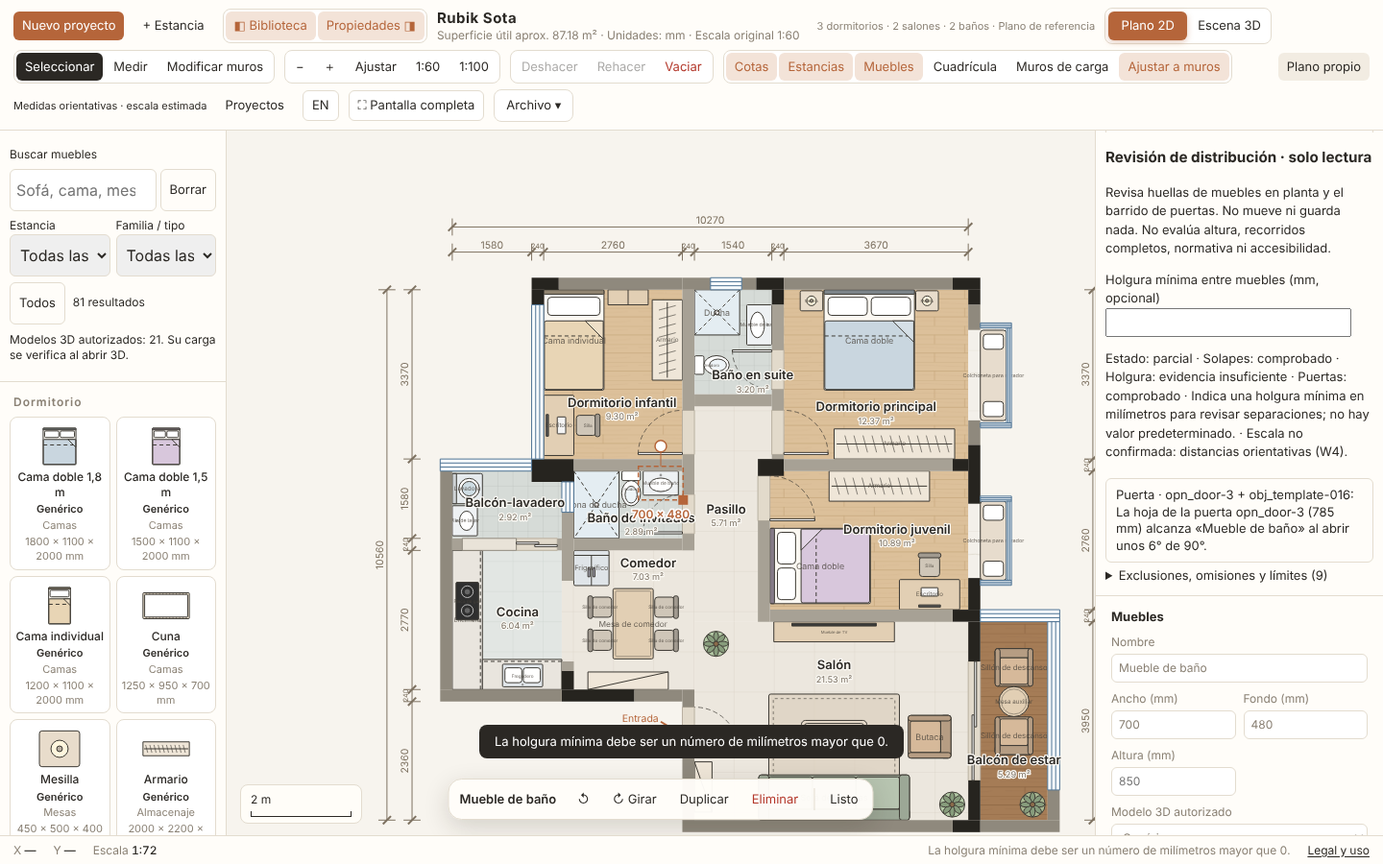
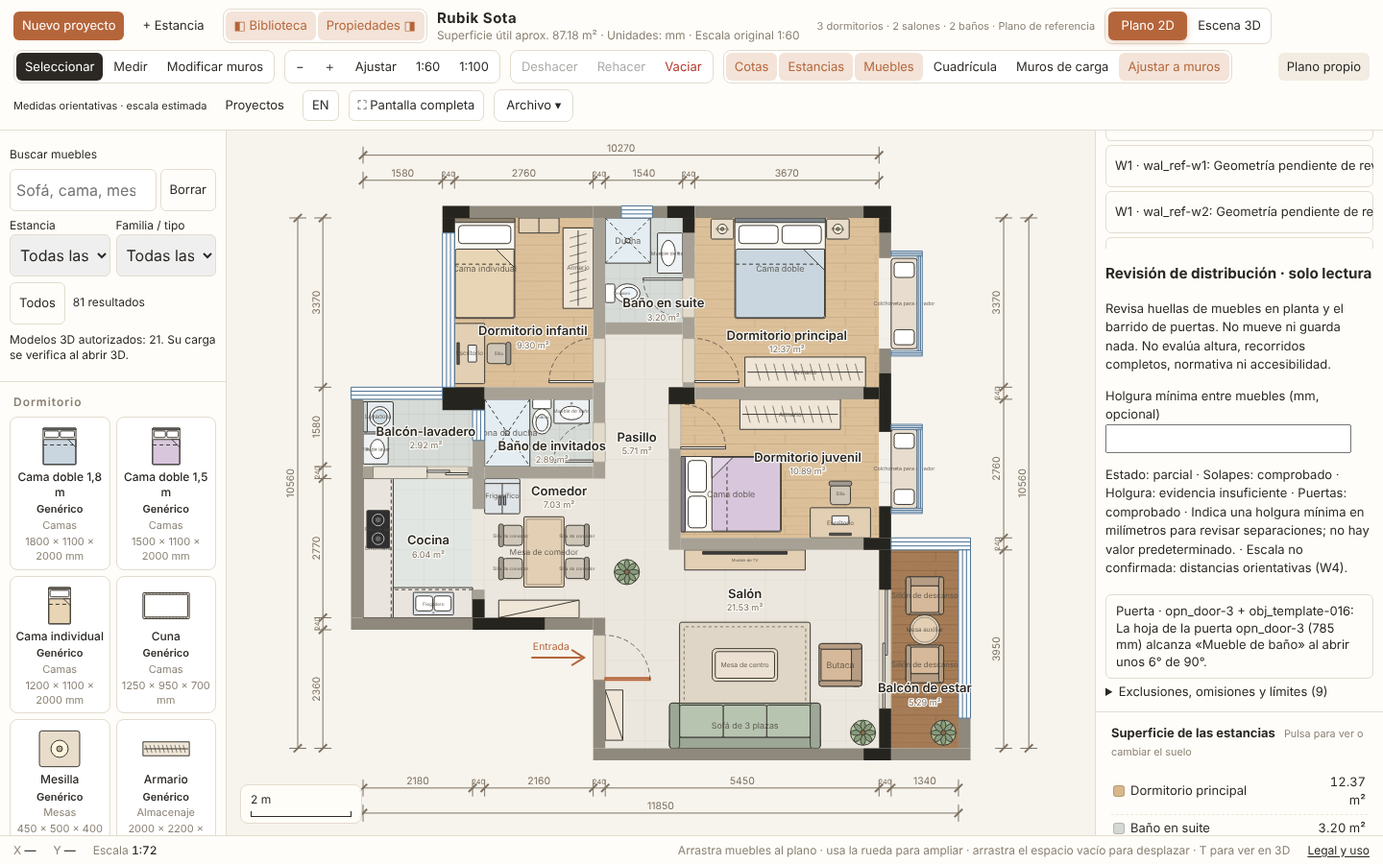
fix: Phase A evidence states with omitted geometry and exact 2D highlight
Omitted objects (invalid position/size/rotation) now degrade every check
that compares objects: overlaps and clearance with a threshold become
partial, clearance without threshold stays insufficient_evidence and says
so, doors become partial when any swing door is checkable (unchanged when
there are no active swing doors), and the global state is never checked.
Valid findings are kept.

Each finding carries exact derived evidence (footprint intersection,
closest-point segment, door sector with leaf at the contact angle) drawn
in a new non-interactive #gReview SVG group in plan millimetres. No text
over the plan; the measurement is shown in the panel. The highlight is
cleared on project change, tool close, explicit removal or when the
finding disappears, and is emptied from PNG exports. Nothing is
persisted; no default clearance threshold.

Claude-Session: https://claude.ai/code/session_01EgAiMCv5NnBcZyWTAra6i6

diff --git a/js/tracing-ui.js b/js/tracing-ui.js
@@ -3,7 +3,7 @@
  const T=FloorPlanTracing,P=FloorPlanPackage,I=FloorPlanImages,A=FloorPlanWallAssist,R=FloorPlanRawWallExport;
  let mode='navigate',points=[],editing=null,shown=false,lastId=library?.activeId(),lastRoot=project.id,operation=0,distanceMode,selectedImage;
  const urls=new Map(),loading=new Set();
- let layoutClearanceMm=null;
+ let layoutClearanceMm=null,layoutActive=null;
  let rawSession=null,rawExportReason='Analiza una imagen calibrada antes de exportar.',exportSerial;
  function invalidateRaw(reason){rawSession=null;rawExportReason=reason;const b=$('#assistRawExport');if(b){b.disabled=true;b.title=reason;}if(rawDialog.open){rawDialog.close();rawForm.reset();}}
  const rawDialog=document.createElement('dialog');rawDialog.id='rawExportDialog';rawDialog.setAttribute('aria-labelledby','rawExportTitle');
@@ -81,12 +81,12 @@
    if(!urls.has(key)){if(im.storage.kind!=='local-browser'||loading.has(key))continue;loading.add(key);const current=project.id;try{const blob=await I.get(key);if(!blob){status('Imagen local no disponible. Importa su ZIP para recuperarla.');continue;}const bytes=new Uint8Array(await blob.arrayBuffer()),info=T.imageInfo(bytes,im.mediaType);if(info.widthPx!==im.widthPx||info.heightPx!==im.heightPx)throw Error('La imagen local no coincide con las dimensiones de su referencia.');await decode(bytes,info);urls.set(key,{url:URL.createObjectURL(new Blob([T.renderBytes(bytes,info)],{type:info.mediaType}))});queueMicrotask(()=>drawImages());}catch(e){report(e);}finally{loading.delete(key);}continue;}
    const n=document.createElementNS(svg.namespaceURI,'image');n.setAttribute('href',urls.get(key).url);n.setAttribute('width',im.widthPx);n.setAttribute('height',im.heightPx);n.setAttribute('opacity',im.opacity??.55);const pl=im.placement;n.setAttribute('transform',`translate(${pl.originMm.x} ${pl.originMm.y}) rotate(${pl.rotationDeg}) scale(${pl.mmPerPixel})`);g.append(n);
   }}
- function render(){if(lastId!==library?.activeId()||lastRoot!==project.id){lastId=library?.activeId();lastRoot=project.id;operation++;mode='navigate';points=[];editing=null;selectedImage=undefined;urlsClear();status('Navegar: arrastra para desplazar; dos dedos o rueda para ampliar. Medidas orientativas.');}checkAssist();drawImages();drawPoints();$('#scaleConfidence').textContent='Medidas orientativas · escala '+({pending:'pendiente',estimated:'estimada',real:'confirmada por la persona'}[project.scale.confidence]);if(!shown)return;
+ function render(){if(lastId!==library?.activeId()||lastRoot!==project.id){lastId=library?.activeId();lastRoot=project.id;operation++;layoutActive=null;mode='navigate';points=[];editing=null;selectedImage=undefined;urlsClear();status('Navegar: arrastra para desplazar; dos dedos o rueda para ampliar. Medidas orientativas.');}checkAssist();drawImages();drawPoints();$('#scaleConfidence').textContent='Medidas orientativas · escala '+({pending:'pendiente',estimated:'estimada',real:'confirmada por la persona'}[project.scale.confidence]);if(!shown){drawReview(null);return;}
   const panel=$('#tracePanel');panel.hidden=false;panel.replaceChildren();
   const title=document.createElement('h3');title.textContent='Plano propio · trazado manual';panel.append(title);
   const note=document.createElement('p');note.textContent=`Medidas orientativas · Escala: ${project.scale.confidence==='real'?'confirmada por la persona':project.scale.confidence==='estimated'?'estimada':'pendiente'}`;panel.append(note);const privacy=document.createElement('p');privacy.textContent='El ZIP incluye las imágenes originales y sus metadatos. Revisa sus datos personales antes de compartirlo.';panel.append(privacy);
   const actions=document.createElement('div');actions.className='actions';panel.append(actions);
-  for(const [id,text,fn]of [['traceNew','Nuevo desde imagen',()=>openImage(true)],['traceAddImage','Añadir imagen',()=>openImage(false)],['traceCalibrate','Calibrar',()=>start('calibrate')],['traceVerify','Segunda cota',()=>start('verify')],['traceConfirm','Confirmar escala',()=>{try{apply(T.confirm);status('Escala confirmada por la persona. Las medidas siguen siendo orientativas.');}catch(e){report(e);}}],['traceWall','Muro',()=>start('wall')],['traceDoor','Puerta',()=>start('door')],['traceWindow','Ventana',()=>start('window')],['traceRoom','Estancia',()=>start('room')],['traceUndoPoint','Quitar último punto',()=>{points.pop();drawPoints();}],['traceCloseRoom','Cerrar estancia',()=>{try{if(mode!=='room'||points.length<3)throw Error('Marca al menos tres vértices.');const polygon=points;apply(p=>T.room(p,polygon));points=[];drawPoints();status('Estancia guardada. Revisa su contorno.');}catch(e){report(e);}}],['traceEdit','Seleccionar/editar',()=>start('edit')],['traceNavigate','Navegar/cancelar',cancel],['traceExport','Exportar ZIP',async()=>{try{download('proyecto-plano.zip',await P.encode(project,I.get));}catch(e){report(e);}}],['traceImport','Importar ZIP',()=>$('#traceZipFile').click()],['traceHidePanel','Cerrar herramientas',()=>{shown=false;panel.hidden=true;drawer(null);}]] ){
+  for(const [id,text,fn]of [['traceNew','Nuevo desde imagen',()=>openImage(true)],['traceAddImage','Añadir imagen',()=>openImage(false)],['traceCalibrate','Calibrar',()=>start('calibrate')],['traceVerify','Segunda cota',()=>start('verify')],['traceConfirm','Confirmar escala',()=>{try{apply(T.confirm);status('Escala confirmada por la persona. Las medidas siguen siendo orientativas.');}catch(e){report(e);}}],['traceWall','Muro',()=>start('wall')],['traceDoor','Puerta',()=>start('door')],['traceWindow','Ventana',()=>start('window')],['traceRoom','Estancia',()=>start('room')],['traceUndoPoint','Quitar último punto',()=>{points.pop();drawPoints();}],['traceCloseRoom','Cerrar estancia',()=>{try{if(mode!=='room'||points.length<3)throw Error('Marca al menos tres vértices.');const polygon=points;apply(p=>T.room(p,polygon));points=[];drawPoints();status('Estancia guardada. Revisa su contorno.');}catch(e){report(e);}}],['traceEdit','Seleccionar/editar',()=>start('edit')],['traceNavigate','Navegar/cancelar',cancel],['traceExport','Exportar ZIP',async()=>{try{download('proyecto-plano.zip',await P.encode(project,I.get));}catch(e){report(e);}}],['traceImport','Importar ZIP',()=>$('#traceZipFile').click()],['traceHidePanel','Cerrar herramientas',()=>{shown=false;panel.hidden=true;layoutActive=null;drawReview(null);drawer(null);}]] ){
    const b=document.createElement('button');b.id=id;b.className='btn';b.textContent=text;b.onclick=fn;actions.append(b);
   }
   assistPanel(panel);
@@ -110,18 +110,38 @@
   const label=document.createElement('label');label.textContent='Holgura mínima entre muebles (mm, opcional) ';const input=document.createElement('input');input.id='layoutReviewClearance';input.type='number';input.min='1';input.step='1';input.inputMode='numeric';input.value=layoutClearanceMm??'';
   input.onchange=()=>{const v=input.value.trim(),n=v===''?null:Number(v);if(n!==null&&!(Number.isFinite(n)&&n>0)){report(Error('La holgura mínima debe ser un número de milímetros mayor que 0.'));input.value=layoutClearanceMm??'';return;}const next=n===null?null:Math.round(n);if(next===layoutClearanceMm)return;layoutClearanceMm=next;render();};
   label.append(input);box.append(label);
-  let result;try{result=L.review(project,{clearanceMm:layoutClearanceMm,label:o=>typeof nm==='function'?nm(o.name):o.name});}catch(e){const error=document.createElement('p');error.id='layoutReviewStatus';error.textContent='No se pudo revisar: '+(e.message||e);box.append(error);return;}
+  let result;try{result=L.review(project,{clearanceMm:layoutClearanceMm,label:o=>typeof nm==='function'?nm(o.name):o.name});}catch(e){layoutActive=null;drawReview(null);const error=document.createElement('p');error.id='layoutReviewStatus';error.textContent='No se pudo revisar: '+(e.message||e);box.append(error);return;}
   const state={checked:'comprobado',partial:'parcial',insufficient_evidence:'evidencia insuficiente'};
   const summary=document.createElement('p');summary.id='layoutReviewStatus';summary.dataset.status=result.status;
   summary.textContent=`Estado: ${state[result.status]} · Solapes: ${state[result.checks.solapes.status]} · Holgura: ${state[result.checks.holgura.status]} · Puertas: ${state[result.checks.puertas.status]}`+[result.checks.holgura.reason,result.checks.puertas.status!=='checked'?result.checks.puertas.reason:null].filter(Boolean).map(r=>' · '+r).join('')+(result.scaleConfidence!=='real'?' · Escala no confirmada: distancias orientativas (W4).':'');box.append(summary);
   const list=document.createElement('div');list.id='layoutReviewFindings';box.append(list);
   const kinds={solape:'Solape',holgura:'Holgura',puerta:'Puerta'};
-  for(const f of result.findings){const b=document.createElement('button');b.className='btn';b.dataset.code=f.code;b.textContent=`${kinds[f.code]} · ${f.objects.join(' + ')}: ${f.message}`;b.title=`${f.method}. ${f.limitation}`;b.onclick=()=>locate(f.code==='puerta'?f.objects[1]:f.objects[0]);list.append(b);}
+  const active=result.findings.find(f=>findingKey(f)===layoutActive);if(!active)layoutActive=null;drawReview(active||null);
+  for(const f of result.findings){const b=document.createElement('button');b.className='btn';b.dataset.code=f.code;b.dataset.key=findingKey(f);b.setAttribute('aria-pressed',String(f===active));b.textContent=`${kinds[f.code]} · ${f.objects.join(' + ')}: ${f.message}`;b.title=`${f.method}. ${f.limitation}`;b.onclick=()=>{layoutActive=findingKey(f);locate(f.code==='puerta'?f.objects[1]:f.objects[0]);render();};list.append(b);}
+  if(active){const caption=document.createElement('p');caption.id='layoutReviewActive';caption.textContent='Resaltado en el plano · '+reviewCaption(active);box.append(caption);const clear=document.createElement('button');clear.className='btn';clear.id='layoutReviewClearHighlight';clear.textContent='Quitar resaltado del plano';clear.onclick=()=>{layoutActive=null;render();};box.append(clear);}
   if(!result.findings.length)list.textContent='Sin hallazgos con los datos y el método actuales.';
   const limits=document.createElement('details');limits.id='layoutReviewLimits';const sum=document.createElement('summary');sum.textContent=`Exclusiones, omisiones y límites (${result.excluded.length+result.skipped.length+result.unsupported.length})`;limits.append(sum);
   const ul=document.createElement('ul');for(const text of [...result.excluded.map(e=>`Excluido ${e.objects.join(' + ')}: ${e.reason}`),...result.skipped.map(e=>`Sin evaluar ${e.id}: ${e.reason}`),...result.unsupported.map(e=>`No comprobado (${e.check}): ${e.reason}`)]){const li=document.createElement('li');li.textContent=text;ul.append(li);}limits.append(ul);box.append(limits);
  }
 
+ const findingKey=f=>f.code+':'+f.objects.join('+');
+ const reviewCaption=f=>f.code==='solape'?`Solape de huellas: ${f.measurementMm} mm de penetración (${f.objects.join(' + ')})`:f.code==='holgura'?`Holgura: ${f.measurementMm} mm < umbral ${f.thresholdMm} mm (${f.objects.join(' + ')})`:`Puerta ${f.objects[0]}: la hoja alcanza ${f.objects[1]} a ≈${f.measurementDeg}° de 90°`;
+ // Draws only the exact evidence computed by FloorPlanLayoutReview, in plan millimetres (same viewBox as the plan).
+ function drawReview(f){const g=$('#gReview');if(!g)return;g.replaceChildren();delete g.dataset.finding;if(!f||!f.evidence)return;g.dataset.finding=findingKey(f);
+  const ns=svg.namespaceURI,e=f.evidence,red='#d0103a',pts=P=>P.map(v=>`${v.x},${v.y}`).join(' ');
+  const el=(tag,attrs,cls)=>{const n=document.createElementNS(ns,tag);for(const [k,v]of Object.entries(attrs))n.setAttribute(k,v);n.setAttribute('vector-effect','non-scaling-stroke');if(cls)n.setAttribute('class',cls);g.append(n);return n;};
+  const outline=P=>el('polygon',{points:pts(P),fill:'none',stroke:red,'stroke-width':2,'stroke-dasharray':'6 4'},'review-footprint');
+  // No text is drawn on the plan (it would cover room and furniture labels); the measurement is given as an accessible title
+  // here and as visible text in the review panel.
+  const title=document.createElementNS(ns,'title');title.textContent=reviewCaption(f);g.append(title);
+  if(e.kind==='overlap'){e.footprints.forEach(outline);if(e.polygon.length>=3)el('polygon',{points:pts(e.polygon),fill:red,'fill-opacity':.45,stroke:red,'stroke-width':2},'review-overlap');}
+  else if(e.kind==='clearance'){e.footprints.forEach(outline);el('line',{x1:e.a.x,y1:e.a.y,x2:e.b.x,y2:e.b.y,stroke:red,'stroke-width':4,'stroke-linecap':'round'},'review-gap');for(const p of [e.a,e.b])el('circle',{cx:p.x,cy:p.y,r:35,fill:red},'review-gap-end');}
+  else if(e.kind==='door'){const h=e.hinge,R=e.radiusMm,at=d=>{const r=d*Math.PI/180;return {x:h.x+R*(Math.cos(r)*e.closed.x+Math.sin(r)*e.open.x),y:h.y+R*(Math.cos(r)*e.closed.y+Math.sin(r)*e.open.y)};};
+   const sweep=e.closed.x*e.open.y-e.closed.y*e.open.x>0?1:0,c=at(0),o=at(90),tip=e.leaf[1];
+   el('path',{d:`M${h.x} ${h.y}L${c.x} ${c.y}A${R} ${R} 0 0 ${sweep} ${o.x} ${o.y}Z`,fill:red,'fill-opacity':.12,stroke:red,'stroke-width':1.5,'stroke-dasharray':'5 3'},'review-door-sweep');
+   el('path',{d:`M${h.x} ${h.y}L${tip.x} ${tip.y}A${R} ${R} 0 0 ${sweep} ${o.x} ${o.y}Z`,fill:red,'fill-opacity':.35,stroke:'none'},'review-door-blocked');
+   outline(e.footprint);el('line',{x1:h.x,y1:h.y,x2:tip.x,y2:tip.y,stroke:red,'stroke-width':4,'stroke-linecap':'round'},'review-door-leaf');}
+ }
  function focusPoint(point){view.x0=point.x-svg.clientWidth/2/view.s;view.y0=point.y-svg.clientHeight/2/view.s;applyView();drawPoints();}
  function locate(id){const groups=[['wall',project.walls],['opening',project.openings],['room',project.rooms]];for(const [kind,list]of groups)if(list.some(e=>e.id===id)){editing={kind,id};ui.sel=null;renderPanel();drawer('panel',true);const e=list.find(e=>e.id===id);const w=kind==='opening'?project.walls.find(w=>w.id===e.wallId):e;const point=kind==='room'?{x:e.polygon.reduce((n,p)=>n+p.x,0)/e.polygon.length,y:e.polygon.reduce((n,p)=>n+p.y,0)/e.polygon.length}:kind==='opening'?{x:w.start.x+(w.end.x-w.start.x)*(e.offsetMm+e.widthMm/2)/Math.hypot(w.end.x-w.start.x,w.end.y-w.start.y),y:w.start.y+(w.end.y-w.start.y)*(e.offsetMm+e.widthMm/2)/Math.hypot(w.end.x-w.start.x,w.end.y-w.start.y)}:{x:(w.start.x+w.end.x)/2,y:(w.start.y+w.end.y)/2};focusPoint(point);return;}const obj=project.objects.find(o=>o.id===id);if(obj){select({kind:'furn',id});drawer('panel',true);focusPoint(obj.position);}else toast('Revisa la calibración y la segunda cota.',5000);}
  function editPanel(){if(!editing)return false;const {kind,id}=editing,e=(kind==='wall'?project.walls:kind==='opening'?project.openings:project.rooms).find(e=>e.id===id);if(!e){editing=null;return false;}const panel=$('#panel');panel.replaceChildren();const title=document.createElement('h3');title.textContent=`Editar ${kind==='wall'?'muro':kind==='opening'?'hueco':'estancia'} · ${id}`;panel.append(title);

diff --git a/js/layout-review.js b/js/layout-review.js
@@ -28,6 +28,9 @@
    if(Math.abs(den)<EPS){if(num>=-EPS)return 0;continue;}const t=-num/den;if(den<0)t0=Math.max(t0,t);else t1=Math.min(t1,t);if(t0>=t1)return 0;}return (t1-t0)*len(d);}
  function area(P){let s=0;for(let i=0;i<P.length;i++){const a=P[i],b=P[(i+1)%P.length];s+=a.x*b.y-b.x*a.y;}return s/2;}
  function clip(P,origin,n){const out=[];for(let i=0;i<P.length;i++){const a=P[i],b=P[(i+1)%P.length],da=dot(sub(a,origin),n),db=dot(sub(b,origin),n);if(da>=0)out.push(a);if((da>=0)!==(db>=0)){const t=da/(da-db);out.push({x:a.x+(b.x-a.x)*t,y:a.y+(b.y-a.y)*t});}}return out;}
+ // Exact intersection of two convex polygons: clip A by every edge half-plane of B.
+ function intersection(A,B){const ccw=area(B)>0;let Q=A;for(let i=0;i<B.length&&Q.length;i++){const v=B[i],w=B[(i+1)%B.length],e=sub(w,v);Q=clip(Q,v,ccw?{x:-e.y,y:e.x}:{x:e.y,y:-e.x});}return Q;}
+ const copy=P=>P.map(v=>({x:v.x,y:v.y}));
  // Door leaf sweep exactly as Rubik draws it in 2D: hinge h on the wall face, closed along c, open along o (90°), radius = opening width.
  // Returns the largest opening angle (degrees) before the leaf reaches the footprint, or null when they do not interfere.
  function leafContact(door,P){const h={x:door.h[0],y:door.h[1]},c={x:door.c[0],y:door.c[1]},o={x:door.o[0],y:door.o[1]},L=door.len;
@@ -57,11 +60,11 @@
   for(let i=0;i<objects.length;i++)for(let j=i+1;j<objects.length;j++){const A=objects[i],B=objects[j],ids=[A.o.id,B.o.id];
    const depth=penetration(A.poly,B.poly),why=exclusion(A.o,B.o,label);
    if(why){if(depth>EPS||clearanceMm!==null&&separation(A.poly,B.poly).d<clearanceMm)excluded.push({objects:ids,reason:why});continue;}
-   if(depth>EPS){findings.push({code:'solape',objects:ids,measurementMm:round(depth),method:METHOD,limitation:'Huellas en planta; no evalúa altura, por lo que un solape puede ser intencionado (por ejemplo, una silla bajo la mesa).',message:`Las huellas de «${label(A.o)}» y «${label(B.o)}» se solapan ${round(depth)} mm en planta.`});continue;}
+   if(depth>EPS){findings.push({code:'solape',objects:ids,measurementMm:round(depth),evidence:{kind:'overlap',polygon:intersection(A.poly,B.poly),footprints:[copy(A.poly),copy(B.poly)]},method:METHOD,limitation:'Huellas en planta; no evalúa altura, por lo que un solape puede ser intencionado (por ejemplo, una silla bajo la mesa).',message:`Las huellas de «${label(A.o)}» y «${label(B.o)}» se solapan ${round(depth)} mm en planta.`});continue;}
    if(clearanceMm===null)continue;
    const s=separation(A.poly,B.poly);if(!(s.d<clearanceMm))continue;
    if(walls.some(W=>insideLength(s.a,s.b,W)>EPS)){excluded.push({objects:ids,reason:'La separación más corta atraviesa un muro; no es un hueco libre entre muebles.'});continue;}
-   findings.push({code:'holgura',objects:ids,measurementMm:round(s.d),thresholdMm:clearanceMm,method:METHOD+'; distancia mínima exacta entre huellas',limitation:'Distancia en planta entre huellas; no garantiza un paso utilizable ni cumplimiento normativo.',message:s.d<0.05?`«${label(A.o)}» y «${label(B.o)}» están en contacto en planta (0 mm), menos que la holgura indicada (${clearanceMm} mm).`:`«${label(A.o)}» y «${label(B.o)}» quedan a ${round(s.d)} mm en planta, menos que la holgura indicada (${clearanceMm} mm).`});}
+   findings.push({code:'holgura',objects:ids,measurementMm:round(s.d),thresholdMm:clearanceMm,evidence:{kind:'clearance',a:{...s.a},b:{...s.b},footprints:[copy(A.poly),copy(B.poly)]},method:METHOD+'; distancia mínima exacta entre huellas',limitation:'Distancia en planta entre huellas; no garantiza un paso utilizable ni cumplimiento normativo.',message:s.d<0.05?`«${label(A.o)}» y «${label(B.o)}» están en contacto en planta (0 mm), menos que la holgura indicada (${clearanceMm} mm).`:`«${label(A.o)}» y «${label(B.o)}» quedan a ${round(s.d)} mm en planta, menos que la holgura indicada (${clearanceMm} mm).`});}
   const swingDoors=(project.openings||[]).filter(op=>op.kind==='door'&&project.walls.find(w=>w.id===op.wallId)?.status!=='demolished');
   let doorsChecked=0;
   for(const op of swingDoors){
@@ -71,17 +74,25 @@
    for(const {o,poly}of objects){
     if(FLOOR_COVERING.has(o.type)||HIGH_WALL.has(o.type)){const contact=leafContact(door,poly);if(contact!==null)excluded.push({objects:[op.id,o.id],reason:exclusion(o,o,label)||'Tipo excluido.'});continue;}
     const contact=leafContact(door,poly);if(contact===null||contact>=90-EPS)continue;
-    findings.push({code:'puerta',objects:[op.id,o.id],openingId:op.id,measurementDeg:Math.round(contact),method:'Barrido de la hoja como cuarto de círculo de radio igual al ancho del hueco, con la bisagra y el sentido guardados (igual que el plano 2D)',limitation:'Hoja de grosor nulo y apertura completa de 90°; no evalúa altura, tiradores ni el lado opuesto.',message:`La hoja de la puerta ${op.id} (${op.widthMm} mm) alcanza «${label(o)}» al abrir unos ${Math.round(contact)}° de 90°.`});}
+    const h={x:door.h[0],y:door.h[1]},rad=contact*Math.PI/180,tip={x:h.x+door.len*(Math.cos(rad)*door.c[0]+Math.sin(rad)*door.o[0]),y:h.y+door.len*(Math.cos(rad)*door.c[1]+Math.sin(rad)*door.o[1])};
+    findings.push({code:'puerta',objects:[op.id,o.id],openingId:op.id,measurementDeg:Math.round(contact),evidence:{kind:'door',hinge:h,radiusMm:door.len,closed:{x:door.c[0],y:door.c[1]},open:{x:door.o[0],y:door.o[1]},contactDeg:contact,leaf:[{...h},tip],footprint:copy(poly)},method:'Barrido de la hoja como cuarto de círculo de radio igual al ancho del hueco, con la bisagra y el sentido guardados (igual que el plano 2D)',limitation:'Hoja de grosor nulo y apertura completa de 90°; no evalúa altura, tiradores ni el lado opuesto.',message:`La hoja de la puerta ${op.id} (${op.widthMm} mm) alcanza «${label(o)}» al abrir unos ${Math.round(contact)}° de 90°.`});}
   }
+  // Evidence completeness: any object without valid geometry may hide overlaps, clearances or door contacts, so no check that
+  // compares objects can be 'checked'. Valid findings are kept; the state says the list of objects was incomplete.
+  const invalid=skipped.filter(s=>s.check==='objetos').length,missing=invalid?` ${invalid} objeto(s) sin geometría válida no se han podido revisar.`:'';
   const checks={
-   solapes:{status:'checked'},
-   holgura:clearanceMm===null?{status:'insufficient_evidence',reason:'Indica una holgura mínima en milímetros para revisar separaciones; no hay valor predeterminado.'}:{status:'checked',thresholdMm:clearanceMm},
-   puertas:!swingDoors.length?{status:'checked',reason:'No hay puertas abatibles activas.'}:doorsChecked===swingDoors.length?{status:'checked'}:doorsChecked?{status:'partial',reason:'Algunas puertas no tienen bisagra y sentido registrados.'}:{status:'insufficient_evidence',reason:'Ninguna puerta tiene bisagra y sentido registrados.'}
+   solapes:invalid?{status:'partial',reason:'Revisión incompleta.'+missing}:{status:'checked'},
+   holgura:clearanceMm===null?{status:'insufficient_evidence',reason:'Indica una holgura mínima en milímetros para revisar separaciones; no hay valor predeterminado.'+(invalid?' Además,'+missing.toLowerCase():'')}:invalid?{status:'partial',thresholdMm:clearanceMm,reason:'Revisión incompleta.'+missing}:{status:'checked',thresholdMm:clearanceMm}
   };
-  if(skipped.some(s=>s.check==='objetos'))checks.solapes={status:'partial',reason:'Algunos objetos no tienen geometría válida.'};
+  if(!swingDoors.length)checks.puertas={status:'checked',reason:'No hay puertas abatibles activas.'};
+  else{const reasons=[];let status=doorsChecked===swingDoors.length?'checked':doorsChecked?'partial':'insufficient_evidence';
+   if(status==='partial')reasons.push('Algunas puertas no tienen bisagra y sentido registrados.');
+   if(status==='insufficient_evidence')reasons.push('Ninguna puerta tiene bisagra y sentido registrados.'+(invalid?' Además,'+missing.toLowerCase():''));
+   else if(invalid){status='partial';reasons.push('Revisión incompleta:'+missing);}
+   checks.puertas=reasons.length?{status,reason:reasons.join(' ')}:{status};}
   const states=Object.values(checks).map(c=>c.status);
   const status=states.every(s=>s==='checked')?'checked':states.every(s=>s==='insufficient_evidence')?'insufficient_evidence':'partial';
   return {status,units:'mm',method:METHOD,scaleConfidence:project.scale?.confidence,checks,findings,excluded,skipped,unsupported:UNSUPPORTED.map(([check,reason])=>({check,reason}))};
  }
- const api={review,leafContact,separation,penetration};if(typeof module==='object')module.exports=api;else root.FloorPlanLayoutReview=api;
+ const api={review,leafContact,separation,penetration,intersection};if(typeof module==='object')module.exports=api;else root.FloorPlanLayoutReview=api;
 })(globalThis);

diff --git a/index.html b/index.html
@@ -359,6 +359,7 @@ dialog::backdrop{background:#0006}dialog label{display:block;margin:12px 0}dialo
       <g id="gMeasure" pointer-events="none"></g>
       <g id="gTrace" pointer-events="none"></g>
       <g id="gAssist" pointer-events="none" aria-label="Sugerencias experimentales sin confirmar"></g>
+      <g id="gReview" pointer-events="none" aria-label="Resaltado de la revisión de distribución (solo lectura)"></g>
       <g id="gSel"></g>
     </svg>
     <div id="view3d">
@@ -1666,6 +1667,7 @@ function exportPNG(){
   clone.setAttribute('viewBox', `${BOUNDS.x} ${BOUNDS.y} ${BOUNDS.w} ${BOUNDS.h}`);
   clone.setAttribute('width', W); clone.setAttribute('height', H);
   SafeDOM.markup(clone.querySelector('#gSel'), '');
+  SafeDOM.markup(clone.querySelector('#gReview'), ''); // read-only review highlight never goes into exported images
   SafeDOM.markup(clone.querySelector('#gGrid'), `<rect x="-20000" y="-20000" width="55000" height="55000" fill="${ui.layers.grid?'url(#grid)':'#f7f4ee'}"/>`);
   const bg = document.createElementNS('http://www.w3.org/2000/svg','rect');
   Object.entries({x:-20000,y:-20000,width:55000,height:55000,fill:'#f7f4ee'}).forEach(([k,v]) => bg.setAttribute(k,v));

diff --git a/docs/technical/layout-review-phase-a.md b/docs/technical/layout-review-phase-a.md
@@ -1,6 +1,8 @@
 # Fase A (propuesta Pascal→Rubik) — revisión local de distribución
 
-**Estado: implementación inicial en rama aislada, pendiente de revisión.** No es una fase canónica.
+**Estado: implementación en rama aislada, pendiente de revisión humana.** No es una fase canónica.
+
+Historial en la rama: `02b8165` (revisión inicial) y la corrección posterior de estados de evidencia y resaltado 2D, descrita aquí.
 
 - **Base:** `claude/intelligent-pasteur-vci64k`, sobre `master` `c4f2493195c05fe54ca22bc1b9fbaf7ea1681af3`.
 - **Origen:** el borrador [PASCAL-RUBIK-INTEGRATION-ROADMAP](../proposals/PASCAL-RUBIK-INTEGRATION-ROADMAP.md), sección 8, Fase A, que sigue sin aprobar.
@@ -11,20 +13,60 @@
 
 ## Qué hace
 
-La revisión es **de solo lectura** y se recalcula en cada render del panel «Plano propio», justo debajo de los avisos W1–W4. No mueve, edita ni guarda nada. El umbral de holgura vive solo en memoria de la sesión. Cubre tres comprobaciones:
+La revisión es **de solo lectura** y se recalcula en cada render del panel «Plano propio», justo debajo de los avisos W1–W4. No mueve, edita ni guarda nada. El umbral de holgura y el hallazgo resaltado viven solo en memoria de la sesión.
+
+**No hay umbral de holgura predeterminado en esta iteración.** La persona debe introducirlo; sin él, esa comprobación queda en `insufficient_evidence`. Ofrecer valores orientativos sigue siendo una decisión abierta (D-A1 del borrador) y no se resuelve aquí.
+
+Cubre tres comprobaciones:
 
 | Comprobación | Método | Estado si faltan datos |
 | --- | --- | --- |
-| **Solapes entre muebles** | Huella orientada de Rubik (`FloorPlanTracing.footprint`, la misma de W3) y ejes separadores sobre las normales de ambos rectángulos. Mide la penetración mínima en mm. Si las huellas solo se tocan, no hay solape. | `partial` si algún objeto no tiene posición, tamaño o giro válidos. |
-| **Holgura entre muebles** | Distancia mínima exacta entre los dos polígonos convexos (vértice-arista en ambos sentidos). Se informa si es **estrictamente menor** que el umbral que indica la persona. Si el segmento más corto atraviesa un sólido de muro activo (`FloorPlanCore.geometry`, que ya descuenta los huecos de puertas y ventanas), el par se excluye porque no es un hueco libre. | **Sin umbral: `insufficient_evidence`.** No hay valor predeterminado ni se afirma ninguna norma. |
-| **Barrido de puertas** | Para cada puerta abatible en un muro activo, el barrido es exactamente el que dibuja el plano 2D: cuarto de círculo con centro en la bisagra sobre la cara del muro y radio igual al ancho del hueco, de la posición cerrada a la abierta (90°). Usa la bisagra (`start`/`end`) y el sentido (`left`/`right`) **guardados** en `opening.swing`. La huella se recorta al cuadrante y se calcula el **ángulo al que la hoja alcanza el mueble**. | Una puerta sin `swing` se omite con motivo y **no se declara bloqueada**. La geometría 2D/3D le aplica por defecto la bisagra en `start` y la apertura a la izquierda (`left`) para dibujarla, pero esa suposición no se usa como evidencia. Puertas: `partial` si faltan algunas, `insufficient_evidence` si faltan todas. |
+| **Solapes entre muebles** | Huella orientada de Rubik (`FloorPlanTracing.footprint`, la misma de W3) y ejes separadores sobre las normales de ambos rectángulos. Mide la penetración mínima en mm. Si las huellas solo se tocan, no hay solape. | `partial` si algún objeto no tiene posición, tamaño o giro válidos (ver «Evidencia incompleta»). |
+| **Holgura entre muebles** | Distancia mínima exacta entre los dos polígonos convexos (vértice-arista en ambos sentidos). Se informa si es **estrictamente menor** que el umbral que indica la persona. Si el segmento más corto atraviesa un sólido de muro activo (`FloorPlanCore.geometry`, que ya descuenta los huecos de puertas y ventanas), el par se excluye porque no es un hueco libre. | **Sin umbral: `insufficient_evidence`.** No hay valor predeterminado ni se afirma ninguna norma. Con umbral y objetos omitidos: `partial`. |
+| **Barrido de puertas** | Para cada puerta abatible en un muro activo, el barrido es exactamente el que dibuja el plano 2D: cuarto de círculo con centro en la bisagra sobre la cara del muro y radio igual al ancho del hueco, de la posición cerrada a la abierta (90°). Usa la bisagra (`start`/`end`) y el sentido (`left`/`right`) **guardados** en `opening.swing`. La huella se recorta al cuadrante y se calcula el **ángulo al que la hoja alcanza el mueble**. | Una puerta sin `swing` se omite con motivo y **no se declara bloqueada**. La geometría 2D/3D le aplica por defecto la bisagra en `start` y la apertura a la izquierda (`left`) para dibujarla, pero esa suposición no se usa como evidencia. Puertas: `partial` si faltan algunas, `insufficient_evidence` si faltan todas. Con objetos omitidos y alguna puerta comprobable: `partial`. |
 
 **Estado global:**
-- `checked` si las tres comprobaciones concluyen;
+- `checked` solo si las tres comprobaciones son `checked`;
 - `insufficient_evidence` si ninguna concluye;
 - `partial` en cualquier otro caso.
 
-**Cada hallazgo incluye:** los IDs implicados (`obj_…`, `opn_…`), la medición (mm o grados), el método y la limitación. El informe lista siempre las exclusiones, las omisiones y lo no comprobado.
+### Evidencia incompleta: objetos omitidos
+
+Un objeto sin posición, tamaño o giro válidos se omite (`skipped`), pero podría solapar, quedar cerca o estar en el barrido de una puerta. Por eso, cuando hay alguno:
+
+| Comprobación | Estado |
+| --- | --- |
+| Solapes | `partial`, con el número de objetos omitidos. |
+| Holgura con umbral | `partial`, con el número de objetos omitidos. |
+| Holgura sin umbral | `insufficient_evidence`; el motivo añade que además hay objetos omitidos. |
+| Puertas, si hay puertas abatibles activas comprobables | `partial`. Sin geometría válida no se puede descartar que el objeto omitido esté en un barrido. |
+| Puertas, si no hay puertas abatibles activas | `checked` («No hay puertas abatibles activas»): no hay nada que comprobar. Una puerta en un muro demolido no cuenta como activa. |
+| Puertas, si ninguna tiene `swing` | `insufficient_evidence`; el motivo menciona también los objetos omitidos. |
+| Global | Nunca `checked` con objetos omitidos. |
+
+Los hallazgos que sí pudieron calcularse se conservan. El estado indica que el análisis está incompleto.
+
+**Cada hallazgo incluye:** los IDs implicados (`obj_…`, `opn_…`), la medición (mm o grados), el método, la limitación y una `evidence` geométrica exacta, derivada y nunca persistida. El informe lista siempre las exclusiones, las omisiones y lo no comprobado.
+
+### Resaltado en el plano 2D
+
+Al pulsar un hallazgo, se selecciona y centra el mueble, como antes, y además se dibuja su evidencia en el grupo SVG `#gReview`, en milímetros del plano. Comparte `viewBox` con el plano, así que queda alineado a cualquier zoom o tamaño de ventana, con trazos `non-scaling-stroke` (la convención de puertas y símbolos). El grupo tiene `pointer-events="none"` y no intercepta controles.
+
+| Hallazgo | Se dibuja | Exactitud |
+| --- | --- | --- |
+| Solape | Las dos huellas orientadas (discontinuas) y su **intersección exacta**, rellena: polígono convexo obtenido recortando una huella por los semiplanos de la otra. | Exacta para los rectángulos guardados. |
+| Holgura | Las dos huellas y el **segmento entre los puntos más próximos**, con marcas en los extremos. | Exacto. A poco zoom, un hueco muy pequeño (p. ej. 25 mm) se ve como una marca de 1–2 px: se dibuja a escala real y no se exagera. |
+| Puerta | El cuarto de círculo del barrido, igual que el arco 2D; la parte **bloqueada** (de la posición de contacto a 90°), con más opacidad; la **hoja en el ángulo de contacto**; y la huella alcanzada. | Exacto con el modelo de Rubik: hoja de grosor nulo y longitud igual al ancho del hueco. No representa tiradores ni la puerta real. |
+
+- **Sin texto sobre el plano:** no se dibuja ninguna etiqueta encima, para no tapar rótulos de estancias ni de muebles. La medida y el umbral aparecen en el panel («Resaltado en el plano · …») y como `<title>` accesible del grupo.
+- **Cuándo se retira o actualiza:**
+  - con «Quitar resaltado del plano»;
+  - al cambiar de proyecto;
+  - al cerrar las herramientas;
+  - cuando el hallazgo deja de existir (por ejemplo, al quitar el umbral).
+- **Con cada render se recalcula** con la geometría vigente.
+- **Exportación PNG:** vacía `#gReview` en su copia del SVG, así que el resaltado nunca aparece en la imagen exportada.
+- **Nunca modifica** el proyecto, el historial (deshacer/rehacer), `localStorage` ni las exportaciones.
 
 ### Exclusiones por apilamiento de diseño, tomadas del propio Rubik
 
@@ -53,30 +95,56 @@ La interfaz y el informe lo declaran siempre:
 
 - [`js/layout-review.js`](../../js/layout-review.js): módulo UMD sin DOM ni dependencias. Expone `FloorPlanLayoutReview.review(project,{clearanceMm,label})`. No usa `new Function`, `eval` ni código de Pascal.
 - [`js/tracing-core.js`](../../js/tracing-core.js): extrae `footprint(o)`, la huella orientada que W3 ya usaba, sin cambiar su fórmula. W3 la reutiliza.
-- [`js/tracing-ui.js`](../../js/tracing-ui.js): sección `#layoutReview` tras `#traceWarnings`, con el mismo patrón de botones que localizan el elemento. El campo `#layoutReviewClearance` es opcional. El detalle `#layoutReviewLimits` muestra exclusiones y límites. Los nombres se traducen con `nm()`.
-- [`index.html`](../../index.html): carga el script tras `tracing-core.js` y aplica estilos de lista equivalentes a `#traceWarnings`.
+- [`js/tracing-ui.js`](../../js/tracing-ui.js): sección `#layoutReview` tras `#traceWarnings`, con el mismo patrón de botones que localizan el elemento.
+  - El campo `#layoutReviewClearance` es opcional.
+  - El detalle `#layoutReviewLimits` muestra exclusiones y límites.
+  - `drawReview()` pinta `#gReview`; `#layoutReviewActive` y `#layoutReviewClearHighlight` describen y retiran el resaltado.
+  - Los nombres se traducen con `nm()`.
+- [`index.html`](../../index.html):
+  - carga el script tras `tracing-core.js`;
+  - añade `<g id="gReview">` al SVG del plano;
+  - vacía ese grupo en la copia que exporta a PNG;
+  - aplica estilos de lista equivalentes a `#traceWarnings`.
 
 **Relación con Pascal** (`pascalorg/editor` @ `67f8041`): se adapta solo el **patrón de evidencia** de `check_collisions`, con estados `checked`/`partial`/`insufficient_evidence`, omisiones y límites explícitos. **No** se usa su AABB envolvente ni su zona de puerta rectangular: Rubik ya tenía la huella orientada y datos de bisagra y sentido.
 
 ## Pruebas
 
-Ejecutadas una a una (sin suites en paralelo) en clones git aislados del checkout: `master` `c4f2493` frente a la Fase A (`60060c6` más estos cambios). Así las capturas que escriben las suites no tocan el checkout de trabajo. Chromium headless 1194 con SwiftShader. **Condición del entorno:** jsDelivr devuelve 403 en el proxy. Three.js 0.160.0 se sirvió con un *shim* local de `curl` a partir del tarball npm de la misma versión.
+Ejecutadas una a una, sin suites en paralelo, en clones git aislados del checkout, para que las capturas que escriben las suites no lo toquen.
 
-| Suite | `master` | Fase A |
+- **Versiones comparadas:** `master` `c4f2493` frente a la Fase A con esta corrección (`02b8165` más los cambios). Antes de la batería se comprobó que el clon era idéntico al checkout, archivo por archivo.
+- **Base:** los resultados de `master` son los de la ejecución secuencial de la misma sesión. `master` no ha cambiado (`c4f2493`).
+- **Entorno:** Chromium headless 1194 con SwiftShader. jsDelivr devuelve 403 en el proxy, así que Three.js 0.160.0 se sirvió con un *shim* local de `curl` a partir del tarball npm de la misma versión.
+
+| Suite | `master` | Fase A con corrección |
 | --- | --- | --- |
-| `tests/layout-review.test.cjs` (nueva) | — | 12/12 |
-| `tests/layout-review.browser.test.cjs` (nueva, 1440×900 y 390×844) | — | 2/2 |
+| `tests/layout-review.test.cjs` + `tests/layout-review.browser.test.cjs` | — | 18/18 (16 unitarias, 2 de navegador a 1440×900 y 390×844) |
 | Unitarias Node existentes (`tracing`, `room-layout`, `project`, `library`, `interop`, `wall_assist`, `raw_wall_export`, `surfaces`, `assets`, `furniture-search`) | 124 pasan, 1 se omite (Blender) | 124 pasan, 1 se omite (Blender) |
-| Python (`tests/*.py`) | — | 4/4 OK (ejecutadas en el checkout; no escriben ficheros) |
 | `tests/browser.test.cjs` | 36 pasan, 1 se omite (test 9, chequeo de CDN propio del test) | 36 pasan, 1 se omite (mismo test) |
-| `tests/assets.browser.test.cjs` (F3) | 21 pasan, 4 fallan (2, 15, 16, 17) | 21 pasan, 4 fallan (los mismos) |
-| Búsqueda de muebles 1440×900, aislada y repetida dos veces | 2/2 | 2/2 |
+| `tests/assets.browser.test.cjs` (F3) | 21 pasan, 4 fallan (2, 15, 16, 17) | 21 pasan, 4 fallan (los mismos; mismo error y mismo número de ocurrencias por test: 18, 11, 11 y 11) |
 | `tests/surfaces.browser.test.cjs` | 7/7 | 7/7 |
 | `tests/room-layout.browser.test.cjs` (dimensiones) | 5/5 | 5/5 |
 
+**Qué cubren las pruebas nuevas:**
+- estados parciales con objetos omitidos: con umbral y puerta activa, con umbral y sin puerta activa, sin umbral, y puertas sin `swing`;
+- el estado global;
+- la conservación de los hallazgos válidos;
+- la geometría exacta de la evidencia: intersección, segmento y hoja en el ángulo de contacto;
+- en navegador, a 1440×900 y 390×844:
+  - el resaltado de los tres tipos, con su posición en pantalla comparada con la evidencia mapeada por la transformación del propio SVG (menos de 3 px), también tras ampliar el zoom;
+  - el retiro del resaltado al quitar el umbral, al pulsar «Quitar resaltado», al cambiar de proyecto y al cerrar las herramientas;
+  - la exportación PNG sin resaltado;
+  - proyecto, `localStorage` y pilas de deshacer/rehacer idénticos.
+
+Capturas inspeccionadas visualmente en [`docs/qa/artifacts/layout-review/`](../qa/artifacts/layout-review/):
+- `1440x900.png` y `390x844.png` (panel);
+- `*-door.png`, `*-clearance.png` y `*-overlap.png` (resaltados).
+
+Los resaltados coinciden con las huellas y la puerta, y no tapan controles ni texto. En móvil se ven pequeños con el zoom de ajuste.
+
 **Fallos preexistentes en `master`, no introducidos aquí.** Los 4 fallos de F3 son errores de página «Failed to execute 'replaceChildren' … blur event handler», en flujos de edición de muebles ya existentes. Es el mismo patrón de re-render reentrante que la sección `#layoutReview` evita: su campo ignora un `change` que no cambia el valor. No se corrigen en esta entrega porque quedan fuera de su alcance.
 
-**Búsqueda a 1440×900.** Una ejecución anterior en paralelo falló en ella por un timeout de 30 s, esperando a que un GLB texturizado quedara `ready` en 3D (línea 193). No era un fallo de búsqueda. Sobre `master` esa ejecución se cortó antes de llegar al caso. En ejecución secuencial pasa en ambas versiones, dos veces cada una, en unos 22 s. No es una regresión.
+**Búsqueda a 1440×900, de la entrega anterior.** Una ejecución en paralelo falló por un timeout de 30 s, esperando a que un GLB texturizado quedara `ready` en 3D. No era un fallo de búsqueda. En ejecución secuencial pasa en `master` y en la Fase A, dos veces cada una. En esta batería vuelve a pasar dentro de la suite F3.
 
 `git diff --check`, `node --check` de los JS modificados y `scripts/check-documents.py`: correctos.
 
@@ -89,7 +157,7 @@ SwiftShader no acredita rendimiento.
 
 ## Pendiente, no presentado como hecho
 
-- Resaltado del hallazgo sobre el plano 2D. Hoy el botón selecciona y centra el mueble, pero no dibuja la zona en conflicto.
+- A poco zoom, en móvil, los resaltados son pequeños. Centrar la vista no amplía automáticamente.
 - Textos en inglés y chino: el panel «Plano propio» existente ya es solo en español; se sigue esa convención.
-- Decisión D-A1 del borrador: si conviene ofrecer valores orientativos de holgura. Hoy no hay ninguno, por instrucción expresa.
+- Decisión D-A1 del borrador: si conviene ofrecer valores orientativos de holgura. En esta iteración no hay umbral predeterminado; la decisión sigue abierta.
 - Ampliar las exclusiones solo con evidencia del código de Rubik. Ejemplo: sillas bajo la mesa, que hoy se informarían como solape de huellas con su limitación.
